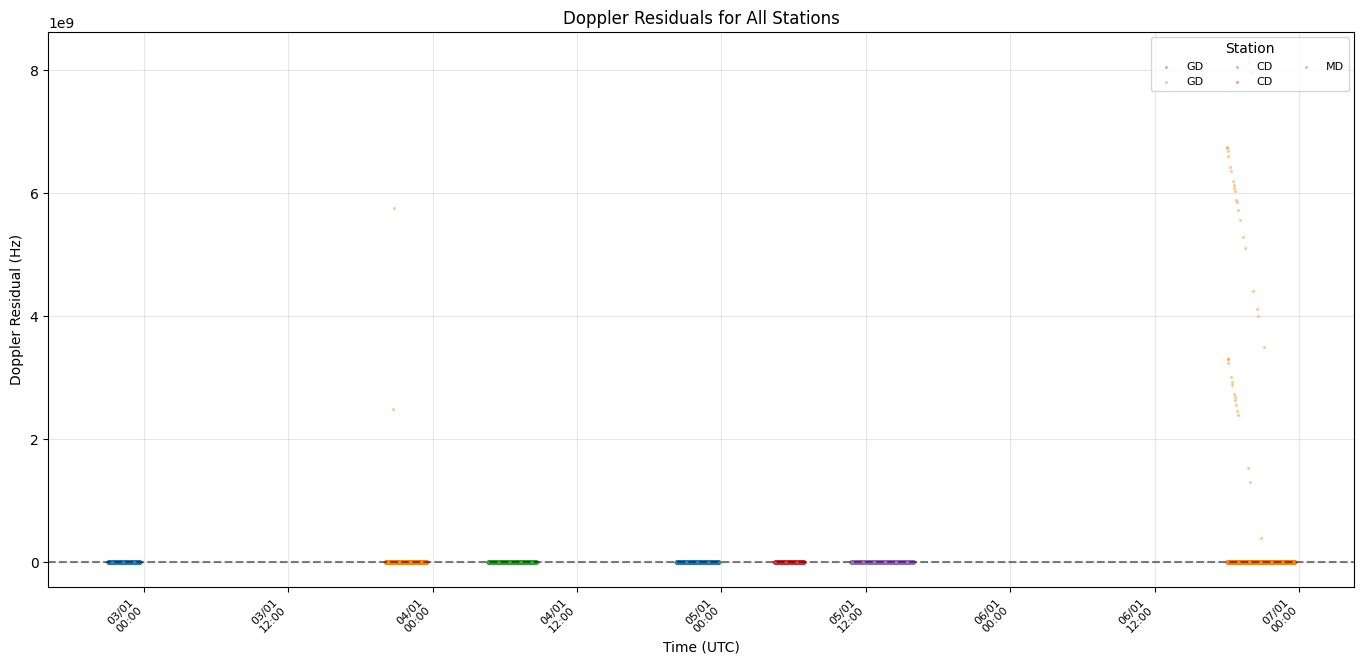
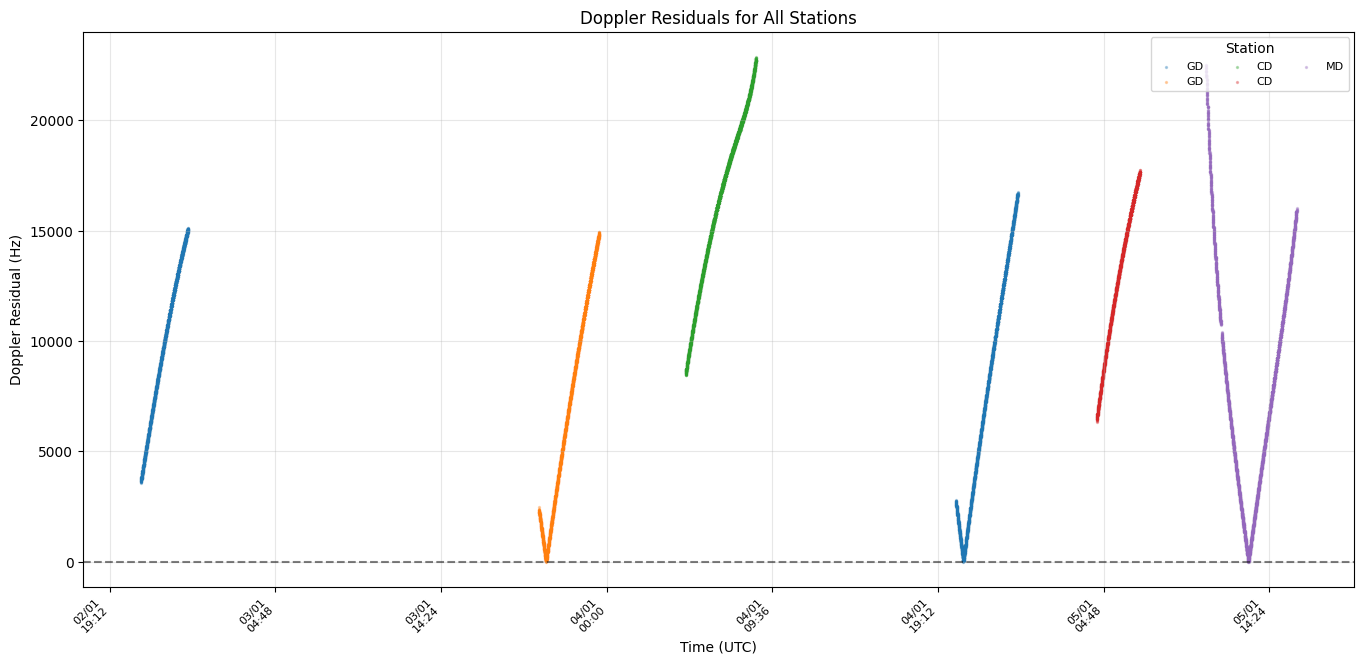
nice

diff --git a/main.py b/main.py
@@ -36,11 +36,11 @@ def main():
 
     #exit(0)
     doppler_df = pd.read_csv(raw_output_file)
-    filtered_doppler_df = doppler_df[doppler_df['time_utc'] <= '2014-01-07']
+    filtered_doppler_df = doppler_df[doppler_df['time_utc'] <= '2014-01-06']
     doppler_df = filtered_doppler_df
     ramp_df = pd.read_csv(raw_ramp_output_file)
     filtered_ramp_df = ramp_df[ramp_df['station_id'] != 0]
-    ramp_df = filtered_ramp_df[filtered_ramp_df['ramp_start_time'] <= '2014-01-07']
+    ramp_df = filtered_ramp_df[filtered_ramp_df['ramp_start_time'] <= '2014-01-06']
     #doppler_df = doppler_df.sample(1000)
 
     #print("3. АНАЛИЗ И ВИЗУАЛИЗАЦИЯ ДАННЫХ...")

diff --git a/lt_tw_doppler.py b/lt_tw_doppler.py
@@ -285,6 +285,9 @@ def process_doppler_with_exact_model(doppler_df, body_interpolators, body_vel_in
             theoretical_doppler = theoretical_result['theoretical_doppler_hz']
             measured_doppler = row['observable_hz']
             residual = abs(measured_doppler - theoretical_doppler)
+
+            if(residual > 1e9):
+                continue
             
             result = {
                 'time_utc': row['time_utc'],
